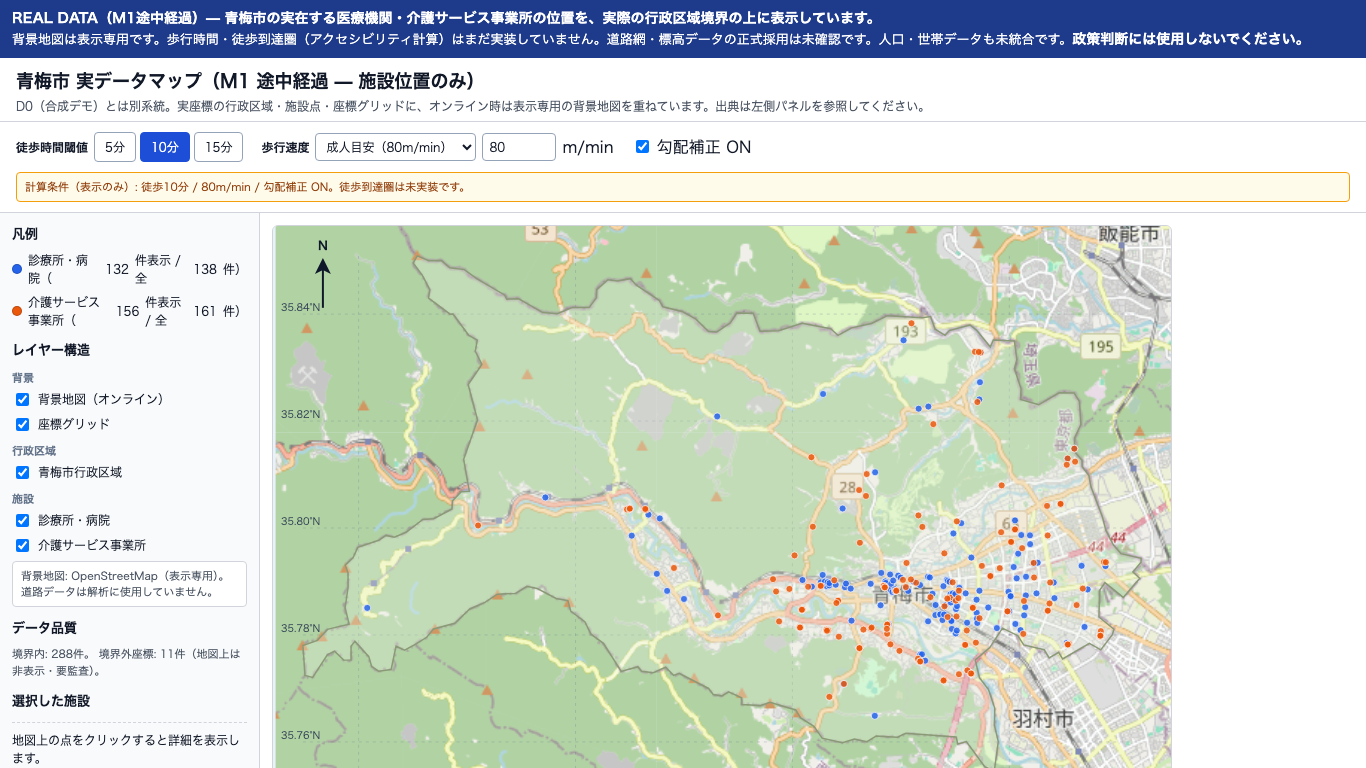
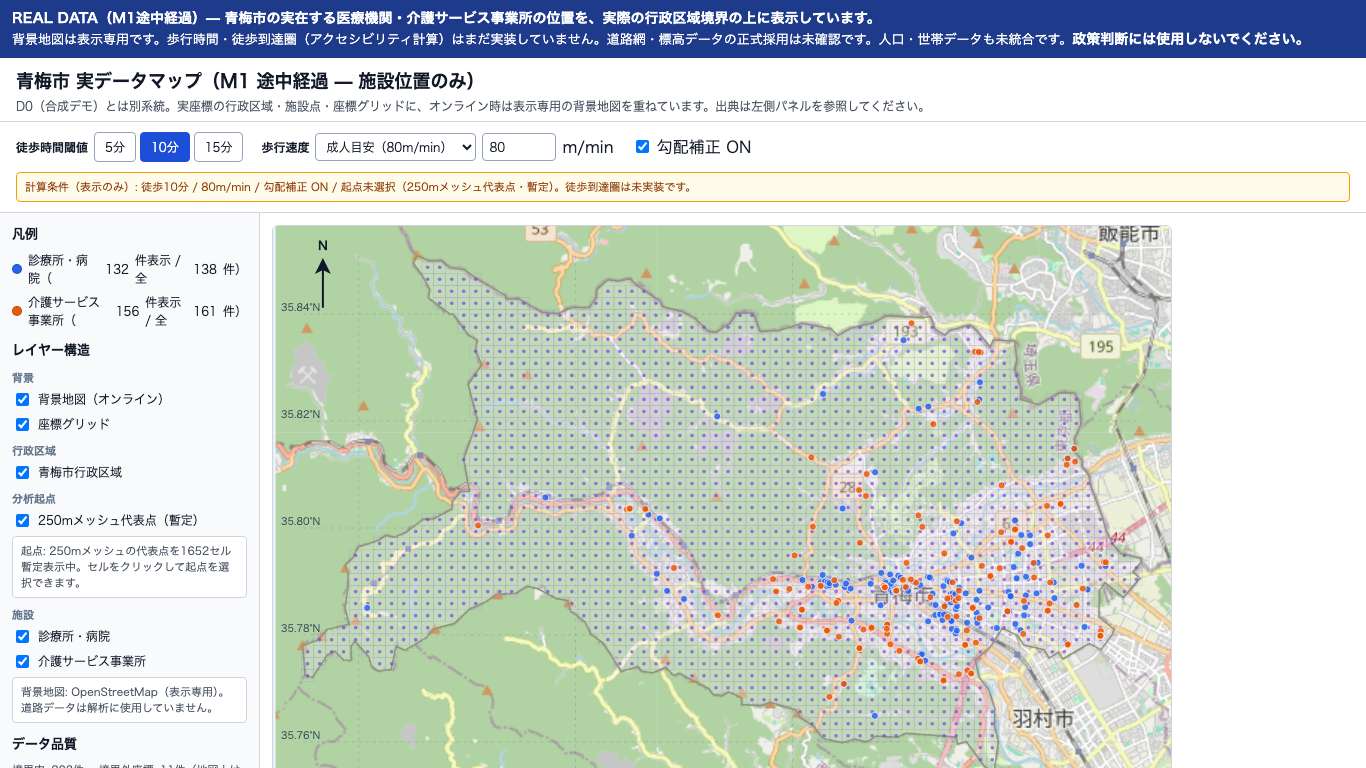
feat(proximity-role): add provisional origin mesh

diff --git a/apps/tokyo-proximity-role-platform/prototype/real-map.html b/apps/tokyo-proximity-role-platform/prototype/real-map.html
@@ -43,6 +43,8 @@
   .layer-group-label { margin: 8px 0 4px; color: #64748b; font-size: 11px; font-weight: 700; }
   .layer-toggle { display: flex; align-items: center; gap: 6px; margin-bottom: 6px; }
   .map-status { margin: 0 0 8px; padding: 6px 8px; border: 1px solid var(--line); border-radius: 4px; background: #fff; color: var(--sub); font-size: 11px; line-height: 1.45; }
+  .origin-cell { cursor: pointer; }
+  .origin-cell.selected { stroke: #7c3aed; stroke-width: 2; fill: #ede9fe; fill-opacity: 0.48; }
   .sources { font-size: 11px; color: var(--sub); line-height: 1.6; }
   .sources a { color: #1e3a8a; }
   section.map-panel { padding: 12px; }
@@ -100,6 +102,9 @@
     <div class="layer-toggle"><input type="checkbox" id="toggleGrid" checked /><label for="toggleGrid">座標グリッド</label></div>
     <div class="layer-group-label">行政区域</div>
     <div class="layer-toggle"><input type="checkbox" id="toggleBoundary" checked /><label for="toggleBoundary">青梅市行政区域</label></div>
+    <div class="layer-group-label">分析起点</div>
+    <div class="layer-toggle"><input type="checkbox" id="toggleOrigins" checked /><label for="toggleOrigins">250mメッシュ代表点（暫定）</label></div>
+    <div class="map-status" id="originStatus">起点: 250mメッシュの代表点を暫定表示中。セルをクリックして起点を選択できます。</div>
     <div class="layer-group-label">施設</div>
     <div class="layer-toggle"><input type="checkbox" id="toggleClinic" checked /><label for="toggleClinic">診療所・病院</label></div>
     <div class="layer-toggle"><input type="checkbox" id="toggleWelfare" checked /><label for="toggleWelfare">介護サービス事業所</label></div>
@@ -124,11 +129,12 @@
       <g id="tileLayer" clip-path="url(#mapClip)"></g>
       <g id="gridLayer"></g>
       <polygon id="boundaryPolygon" fill="var(--land)" stroke="#8a9a76" stroke-width="1.5" />
+      <g id="originLayer" clip-path="url(#mapClip)"></g>
       <g id="clinicLayer"></g>
       <g id="welfareLayer"></g>
       <g id="mapAnnotations" pointer-events="none"></g>
     </svg>
-    <p class="map-help" id="accessibilityStatus">徒歩到達圏: 未実装。道路網・標高データ未接続のため、上の条件は表示のみです。施設点の位置や色は徒歩条件で変化しません。</p>
+    <p class="map-help" id="accessibilityStatus">徒歩到達圏: 未実装。起点は250mメッシュ代表点（暫定）ですが、道路網・標高データ未接続のため条件は表示のみです。</p>
     <p class="map-help">© OpenStreetMap contributors（背景地図は表示専用）。青梅市行政区域と施設点は、下記の出典付き実データを描画しています。座標グリッド・北矢印・縮尺は実座標から算出しています。</p>
   </section>
 </main>
@@ -5283,6 +5289,7 @@
   var DATA = JSON.parse(document.getElementById("real-map-data").textContent);
   var PROJECTION = DATA.projection;
   var VIEW_W = 900, VIEW_H = 620, PAD = 30;
+  var originState = { selected: null };
 
   var xs = DATA.boundary_m.map(function (p) { return p[0]; });
   var ys = DATA.boundary_m.map(function (p) { return p[1]; });
@@ -5341,6 +5348,82 @@
 
   function firstTick(value, step) {
     return Math.ceil((value - 1e-9) / step) * step;
+  }
+
+  function pointInPolygonXY(x, y, polygon) {
+    var inside = false;
+    var previous = polygon[polygon.length - 1];
+    polygon.forEach(function (current) {
+      var crosses = (current[1] > y) !== (previous[1] > y);
+      if (crosses) {
+        var intersectionX = (previous[0] - current[0]) * (y - current[1]) /
+          (previous[1] - current[1]) + current[0];
+        if (x < intersectionX) inside = !inside;
+      }
+      previous = current;
+    });
+    return inside;
+  }
+
+  function renderOriginLayer() {
+    var layer = document.getElementById("originLayer");
+    layer.replaceChildren();
+    var size = 250;
+    var startX = Math.floor(minX / size) * size;
+    var startY = Math.floor(minY / size) * size;
+    var count = 0;
+    for (var x = startX; x <= maxX; x += size) {
+      for (var y = startY; y <= maxY; y += size) {
+        var centerX = x + size / 2;
+        var centerY = y + size / 2;
+        if (!pointInPolygonXY(centerX, centerY, DATA.boundary_m)) continue;
+        var col = Math.round((x - startX) / size);
+        var row = Math.round((y - startY) / size);
+        var id = "OME-250-" + String(row).padStart(2, "0") + String(col).padStart(2, "0");
+        var topLeft = toSvg(x, y + size);
+        var bottomRight = toSvg(x + size, y);
+        var rect = svgElement("rect", {
+          x: topLeft[0].toFixed(2), y: topLeft[1].toFixed(2),
+          width: (bottomRight[0] - topLeft[0]).toFixed(2),
+          height: (bottomRight[1] - topLeft[1]).toFixed(2),
+          fill: "#c4b5fd", "fill-opacity": "0.04",
+          stroke: "#7c3aed", "stroke-opacity": "0.16", "stroke-width": "0.6",
+          class: "origin-cell", "data-origin-id": id,
+        }, layer);
+        var lon = PROJECTION.lon0 + centerX / PROJECTION.meters_per_deg_lon;
+        var lat = PROJECTION.lat0 + centerY / PROJECTION.meters_per_deg_lat;
+        var title = svgElement("title", {}, rect);
+        title.textContent = id + "（暫定起点）";
+        (function (origin) {
+          rect.addEventListener("click", function (event) {
+            event.stopPropagation();
+            selectOrigin(origin);
+          });
+        }({ id: id, x: centerX, y: centerY, lon: lon, lat: lat }));
+        svgElement("circle", {
+          cx: toSvg(centerX, centerY)[0].toFixed(2), cy: toSvg(centerX, centerY)[1].toFixed(2),
+          r: "1.8", fill: "#7c3aed", "fill-opacity": "0.68", "pointer-events": "none",
+        }, layer);
+        count += 1;
+      }
+    }
+    var status = document.getElementById("originStatus");
+    if (originState.selected) {
+      status.textContent = "起点: " + originState.selected.id + "を選択中（250mメッシュ代表点・暫定）。徒歩計算は未接続です。";
+    } else {
+      status.textContent = "起点: 250mメッシュの代表点を" + count + "セル暫定表示中。セルをクリックして起点を選択できます。";
+    }
+  }
+
+  function selectOrigin(origin) {
+    originState.selected = origin;
+    document.querySelectorAll(".origin-cell").forEach(function (cell) {
+      cell.classList.toggle("selected", cell.getAttribute("data-origin-id") === origin.id);
+    });
+    document.getElementById("originStatus").textContent =
+      "起点: " + origin.id + "を選択中（250mメッシュ代表点・暫定）。" +
+      "緯度経度 " + origin.lat.toFixed(5) + ", " + origin.lon.toFixed(5) + "。徒歩計算は未接続です。";
+    updateConditionStatus();
   }
 
   function renderGrid() {
@@ -5482,6 +5565,7 @@
   }
 
   renderGrid();
+  renderOriginLayer();
   renderMapAnnotations();
 
   var clinicsAll = DATA.facilities.filter(function (f) { return f.function_code === "clinic"; });
@@ -5555,16 +5639,20 @@
   document.getElementById("toggleBoundary").addEventListener("change", function (e) {
     document.getElementById("boundaryPolygon").style.display = e.target.checked ? "" : "none";
   });
+  document.getElementById("toggleOrigins").addEventListener("change", function (e) {
+    document.getElementById("originLayer").style.display = e.target.checked ? "" : "none";
+  });
 
   var conditionState = { threshold: 10, speed: 80, slope: true };
 
   function updateConditionStatus() {
     var slopeText = conditionState.slope ? "勾配補正 ON" : "勾配補正 OFF";
     var summary = "徒歩" + conditionState.threshold + "分 / " + conditionState.speed + "m/min / " + slopeText;
+    var originText = originState.selected ? "起点 " + originState.selected.id : "起点未選択（250mメッシュ代表点・暫定）";
     document.getElementById("conditionStatus").textContent =
-      "計算条件（表示のみ）: " + summary + "。徒歩到達圏は未実装です。";
+      "計算条件（表示のみ）: " + summary + " / " + originText + "。徒歩到達圏は未実装です。";
     document.getElementById("accessibilityStatus").textContent =
-      "徒歩到達圏: 未実装。道路網・標高データ未接続のため、選択条件（" + summary + "）は表示のみです。施設点の位置や色は徒歩条件で変化しません。";
+      "徒歩到達圏: 未実装。" + originText + "。道路網・標高データ未接続のため、選択条件（" + summary + "）は表示のみです。施設点の位置や色は徒歩条件で変化しません。";
   }
 
   document.querySelectorAll("[data-threshold]").forEach(function (button) {

diff --git a/apps/tokyo-proximity-role-platform/templates/real-map.html b/apps/tokyo-proximity-role-platform/templates/real-map.html
@@ -43,6 +43,8 @@
   .layer-group-label { margin: 8px 0 4px; color: #64748b; font-size: 11px; font-weight: 700; }
   .layer-toggle { display: flex; align-items: center; gap: 6px; margin-bottom: 6px; }
   .map-status { margin: 0 0 8px; padding: 6px 8px; border: 1px solid var(--line); border-radius: 4px; background: #fff; color: var(--sub); font-size: 11px; line-height: 1.45; }
+  .origin-cell { cursor: pointer; }
+  .origin-cell.selected { stroke: #7c3aed; stroke-width: 2; fill: #ede9fe; fill-opacity: 0.48; }
   .sources { font-size: 11px; color: var(--sub); line-height: 1.6; }
   .sources a { color: #1e3a8a; }
   section.map-panel { padding: 12px; }
@@ -100,6 +102,9 @@
     <div class="layer-toggle"><input type="checkbox" id="toggleGrid" checked /><label for="toggleGrid">座標グリッド</label></div>
     <div class="layer-group-label">行政区域</div>
     <div class="layer-toggle"><input type="checkbox" id="toggleBoundary" checked /><label for="toggleBoundary">青梅市行政区域</label></div>
+    <div class="layer-group-label">分析起点</div>
+    <div class="layer-toggle"><input type="checkbox" id="toggleOrigins" checked /><label for="toggleOrigins">250mメッシュ代表点（暫定）</label></div>
+    <div class="map-status" id="originStatus">起点: 250mメッシュの代表点を暫定表示中。セルをクリックして起点を選択できます。</div>
     <div class="layer-group-label">施設</div>
     <div class="layer-toggle"><input type="checkbox" id="toggleClinic" checked /><label for="toggleClinic">診療所・病院</label></div>
     <div class="layer-toggle"><input type="checkbox" id="toggleWelfare" checked /><label for="toggleWelfare">介護サービス事業所</label></div>
@@ -124,11 +129,12 @@
       <g id="tileLayer" clip-path="url(#mapClip)"></g>
       <g id="gridLayer"></g>
       <polygon id="boundaryPolygon" fill="var(--land)" stroke="#8a9a76" stroke-width="1.5" />
+      <g id="originLayer" clip-path="url(#mapClip)"></g>
       <g id="clinicLayer"></g>
       <g id="welfareLayer"></g>
       <g id="mapAnnotations" pointer-events="none"></g>
     </svg>
-    <p class="map-help" id="accessibilityStatus">徒歩到達圏: 未実装。道路網・標高データ未接続のため、上の条件は表示のみです。施設点の位置や色は徒歩条件で変化しません。</p>
+    <p class="map-help" id="accessibilityStatus">徒歩到達圏: 未実装。起点は250mメッシュ代表点（暫定）ですが、道路網・標高データ未接続のため条件は表示のみです。</p>
     <p class="map-help">© OpenStreetMap contributors（背景地図は表示専用）。青梅市行政区域と施設点は、下記の出典付き実データを描画しています。座標グリッド・北矢印・縮尺は実座標から算出しています。</p>
   </section>
 </main>
@@ -147,6 +153,7 @@
   var DATA = JSON.parse(document.getElementById("real-map-data").textContent);
   var PROJECTION = DATA.projection;
   var VIEW_W = 900, VIEW_H = 620, PAD = 30;
+  var originState = { selected: null };
 
   var xs = DATA.boundary_m.map(function (p) { return p[0]; });
   var ys = DATA.boundary_m.map(function (p) { return p[1]; });
@@ -205,6 +212,82 @@
 
   function firstTick(value, step) {
     return Math.ceil((value - 1e-9) / step) * step;
+  }
+
+  function pointInPolygonXY(x, y, polygon) {
+    var inside = false;
+    var previous = polygon[polygon.length - 1];
+    polygon.forEach(function (current) {
+      var crosses = (current[1] > y) !== (previous[1] > y);
+      if (crosses) {
+        var intersectionX = (previous[0] - current[0]) * (y - current[1]) /
+          (previous[1] - current[1]) + current[0];
+        if (x < intersectionX) inside = !inside;
+      }
+      previous = current;
+    });
+    return inside;
+  }
+
+  function renderOriginLayer() {
+    var layer = document.getElementById("originLayer");
+    layer.replaceChildren();
+    var size = 250;
+    var startX = Math.floor(minX / size) * size;
+    var startY = Math.floor(minY / size) * size;
+    var count = 0;
+    for (var x = startX; x <= maxX; x += size) {
+      for (var y = startY; y <= maxY; y += size) {
+        var centerX = x + size / 2;
+        var centerY = y + size / 2;
+        if (!pointInPolygonXY(centerX, centerY, DATA.boundary_m)) continue;
+        var col = Math.round((x - startX) / size);
+        var row = Math.round((y - startY) / size);
+        var id = "OME-250-" + String(row).padStart(2, "0") + String(col).padStart(2, "0");
+        var topLeft = toSvg(x, y + size);
+        var bottomRight = toSvg(x + size, y);
+        var rect = svgElement("rect", {
+          x: topLeft[0].toFixed(2), y: topLeft[1].toFixed(2),
+          width: (bottomRight[0] - topLeft[0]).toFixed(2),
+          height: (bottomRight[1] - topLeft[1]).toFixed(2),
+          fill: "#c4b5fd", "fill-opacity": "0.04",
+          stroke: "#7c3aed", "stroke-opacity": "0.16", "stroke-width": "0.6",
+          class: "origin-cell", "data-origin-id": id,
+        }, layer);
+        var lon = PROJECTION.lon0 + centerX / PROJECTION.meters_per_deg_lon;
+        var lat = PROJECTION.lat0 + centerY / PROJECTION.meters_per_deg_lat;
+        var title = svgElement("title", {}, rect);
+        title.textContent = id + "（暫定起点）";
+        (function (origin) {
+          rect.addEventListener("click", function (event) {
+            event.stopPropagation();
+            selectOrigin(origin);
+          });
+        }({ id: id, x: centerX, y: centerY, lon: lon, lat: lat }));
+        svgElement("circle", {
+          cx: toSvg(centerX, centerY)[0].toFixed(2), cy: toSvg(centerX, centerY)[1].toFixed(2),
+          r: "1.8", fill: "#7c3aed", "fill-opacity": "0.68", "pointer-events": "none",
+        }, layer);
+        count += 1;
+      }
+    }
+    var status = document.getElementById("originStatus");
+    if (originState.selected) {
+      status.textContent = "起点: " + originState.selected.id + "を選択中（250mメッシュ代表点・暫定）。徒歩計算は未接続です。";
+    } else {
+      status.textContent = "起点: 250mメッシュの代表点を" + count + "セル暫定表示中。セルをクリックして起点を選択できます。";
+    }
+  }
+
+  function selectOrigin(origin) {
+    originState.selected = origin;
+    document.querySelectorAll(".origin-cell").forEach(function (cell) {
+      cell.classList.toggle("selected", cell.getAttribute("data-origin-id") === origin.id);
+    });
+    document.getElementById("originStatus").textContent =
+      "起点: " + origin.id + "を選択中（250mメッシュ代表点・暫定）。" +
+      "緯度経度 " + origin.lat.toFixed(5) + ", " + origin.lon.toFixed(5) + "。徒歩計算は未接続です。";
+    updateConditionStatus();
   }
 
   function renderGrid() {
@@ -346,6 +429,7 @@
   }
 
   renderGrid();
+  renderOriginLayer();
   renderMapAnnotations();
 
   var clinicsAll = DATA.facilities.filter(function (f) { return f.function_code === "clinic"; });
@@ -419,16 +503,20 @@
   document.getElementById("toggleBoundary").addEventListener("change", function (e) {
     document.getElementById("boundaryPolygon").style.display = e.target.checked ? "" : "none";
   });
+  document.getElementById("toggleOrigins").addEventListener("change", function (e) {
+    document.getElementById("originLayer").style.display = e.target.checked ? "" : "none";
+  });
 
   var conditionState = { threshold: 10, speed: 80, slope: true };
 
   function updateConditionStatus() {
     var slopeText = conditionState.slope ? "勾配補正 ON" : "勾配補正 OFF";
     var summary = "徒歩" + conditionState.threshold + "分 / " + conditionState.speed + "m/min / " + slopeText;
+    var originText = originState.selected ? "起点 " + originState.selected.id : "起点未選択（250mメッシュ代表点・暫定）";
     document.getElementById("conditionStatus").textContent =
-      "計算条件（表示のみ）: " + summary + "。徒歩到達圏は未実装です。";
+      "計算条件（表示のみ）: " + summary + " / " + originText + "。徒歩到達圏は未実装です。";
     document.getElementById("accessibilityStatus").textContent =
-      "徒歩到達圏: 未実装。道路網・標高データ未接続のため、選択条件（" + summary + "）は表示のみです。施設点の位置や色は徒歩条件で変化しません。";
+      "徒歩到達圏: 未実装。" + originText + "。道路網・標高データ未接続のため、選択条件（" + summary + "）は表示のみです。施設点の位置や色は徒歩条件で変化しません。";
   }
 
   document.querySelectorAll("[data-threshold]").forEach(function (button) {

diff --git a/apps/tokyo-proximity-role-platform/scripts/verify_real_map.py b/apps/tokyo-proximity-role-platform/scripts/verify_real_map.py
@@ -207,8 +207,14 @@ def check_output(data) -> None:
         'id="toggleBasemap"',
         'id="toggleGrid"',
         'id="toggleBoundary"',
+        'id="toggleOrigins"',
         'id="toggleClinic"',
         'id="toggleWelfare"',
+        'id="originLayer"',
+        "起点",
+        "250mメッシュ",
+        "renderOriginLayer",
+        "selectOrigin",
         "徒歩到達圏: 未実装",
         "計算条件（表示のみ）",
         "updateConditionStatus",
@@ -217,7 +223,7 @@ def check_output(data) -> None:
     if missing_controls:
         fail("REAL-CONTROLS", f"徒歩条件またはレイヤー構造の実装が不足: {missing_controls}")
     else:
-        ok("REAL-CONTROLS", "徒歩条件を表示専用として操作でき、背景・グリッド・境界・施設レイヤーを切り替え可能")
+        ok("REAL-CONTROLS", "徒歩条件を表示専用として操作でき、背景・グリッド・境界・起点・施設レイヤーを切り替え可能")
     if re.search(r"(?:src|href)\s*=\s*[\"'](?:https?:)?//", html, re.IGNORECASE):
         fail("REAL-OFFLINE", "HTMLに外部script/link依存がある")
     else:

diff --git a/apps/tokyo-proximity-role-platform/DECISIONS.md b/apps/tokyo-proximity-role-platform/DECISIONS.md
@@ -151,3 +151,12 @@
 - alternatives: 現在の境界ポリゴンだけを表示する（位置文脈が不足するため不採用）、道路データを取得して分析に使う（M12/M13の承認前であり不採用）、タイルを事前ダウンロードして同梱する（OpenStreetMap標準タイルのオフライン利用・一括取得条件に反するため不採用）。
 - consequences: 地図表示はオンライン時に道路等の文脈を持つが、タイルの可用性は保証されない。分析用道路網の採用判断は未解決のまま残る。
 - rollback: 背景タイルをOFFにし、座標グリッドのみを既定表示に戻す。分析データやrawデータへの影響はない。
+
+## ADR-0011: M11Bでは暫定250mメッシュ代表点を徒歩計算の起点候補として表示する
+
+- status: accepted（M11BのUI表示に限定）
+- context: 徒歩条件を表示するには起点の説明が必要だが、青梅市の正式な人口メッシュ、道路ネットワーク、標高DEM、徒歩モデルは未採用である。起点なしの条件UIは利用者に誤解を与える。
+- decision: 行政区域内にローカル座標の250m正方グリッドを生成し、各セル中心を「暫定起点」として表示する。利用者はセルを選択できるが、徒歩時間・到達圏・政策判定の計算には使用しない。
+- alternatives: 起点を市役所・地図中心・施設点に固定する（根拠がなく不採用）、起点レイヤーを表示しない（条件UIの意味が不明になるため不採用）、正式な人口メッシュを先に実装する（M12/M13のデータ採用・人間確認が未完了のため保留）。
+- consequences: 起点の所在と暫定性を画面で確認できる。正式な人口按分・道路・標高が採用されたら、このローカルグリッドを実分析メッシュへ置き換える必要がある。
+- rollback: 起点レイヤーと選択UIを削除し、徒歩条件UIを正式計算実装まで非表示にする。

diff --git a/apps/tokyo-proximity-role-platform/tasks/M11b-real-data-baseline.md b/apps/tokyo-proximity-role-platform/tasks/M11b-real-data-baseline.md
@@ -29,6 +29,7 @@ acceptance:
   - オンライン時は表示専用の背景地図、失敗時は実座標グリッドへフォールバックする
   - 徒歩5/10/15分・歩行速度・勾配補正を表示専用の条件として操作でき、計算未接続が明示される
   - 背景・座標グリッド・行政区域・施設のレイヤーを個別に表示切替できる
+  - 暫定250mメッシュの起点代表点を表示し、起点セルを選択できる
   - 同じ入力から決定論的に同じ生成物を得られる
   - 1366×768のスクリーンショットを保存できる
 human_gate: false
@@ -53,3 +54,13 @@ human_gate: false
 - verified: `make real-map`、ブラウザで条件変更・レイヤー切替・コンソールエラーなし、1366×768スクリーンショットを更新。
 - evidence: docs/assets/proximity-role-real-map.png
 - remaining: 道路網・標高データ接続後に、条件コントロールを実際の到達圏計算へ接続する。
+
+## Work log (origin layer)
+
+- agent: codex
+- started_at: 2026-08-23
+- completed_at: 2026-08-23
+- changed: 実データ地図へ暫定250mメッシュ代表点の起点レイヤーを追加し、起点セルクリック選択、選択座標表示、レイヤー切替を実装。
+- verified: `make real-map`、ブラウザで起点選択・起点レイヤー切替・徒歩条件表示更新を確認。
+- evidence: prototype/real-map.html、docs/assets/proximity-role-real-map.png
+- remaining: 正式な人口メッシュ・道路網・標高を採用後、暫定起点をM13の実分析メッシュと実道路計算へ置換する。

diff --git a/apps/tokyo-proximity-role-platform/README.md b/apps/tokyo-proximity-role-platform/README.md
@@ -18,7 +18,7 @@
 
 **D0完了 / M1準備中**。`make demo` で合成データのオフライン単一HTMLデモを再現できます。
 青梅市については、`make real-map` で実座標の行政区域・施設点・座標グリッドを生成できます。
-オンライン時はOpenStreetMapの表示専用背景を重ね、オフライン時はグリッドへ戻ります。画面には徒歩5/10/15分、歩行速度、勾配補正の条件表示とレイヤー切替がありますが、道路網・標高に基づく徒歩到達圏の計算は未実装です。
+オンライン時はOpenStreetMapの表示専用背景を重ね、オフライン時はグリッドへ戻ります。画面には徒歩5/10/15分、歩行速度、勾配補正、暫定250mメッシュ起点の選択とレイヤー切替がありますが、道路網・標高に基づく徒歩到達圏の計算は未実装です。
 実在データ側にも政策判断用ではない旨を表示しています。
 
 ## クイックスタート
